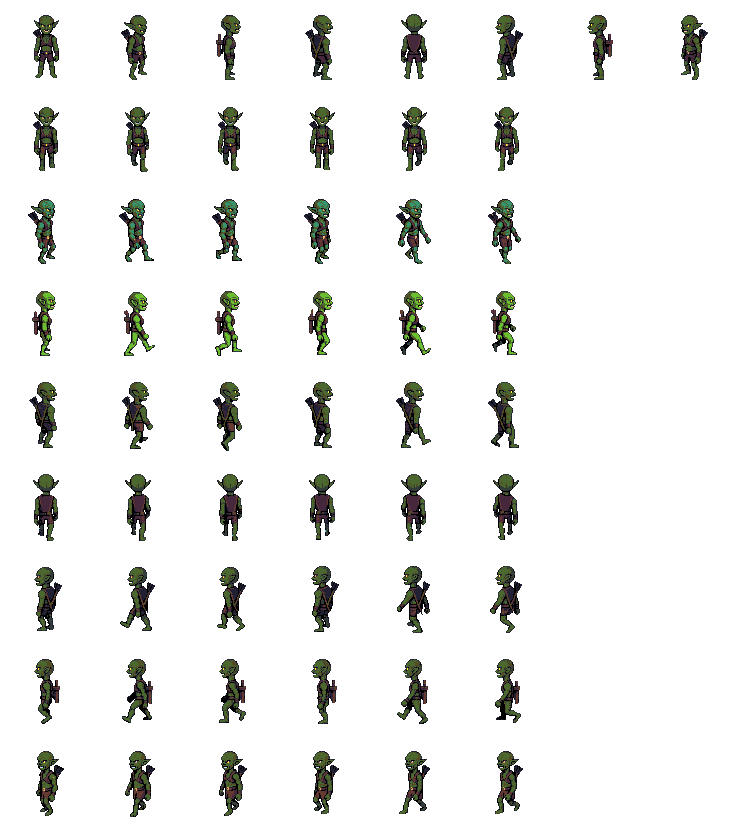
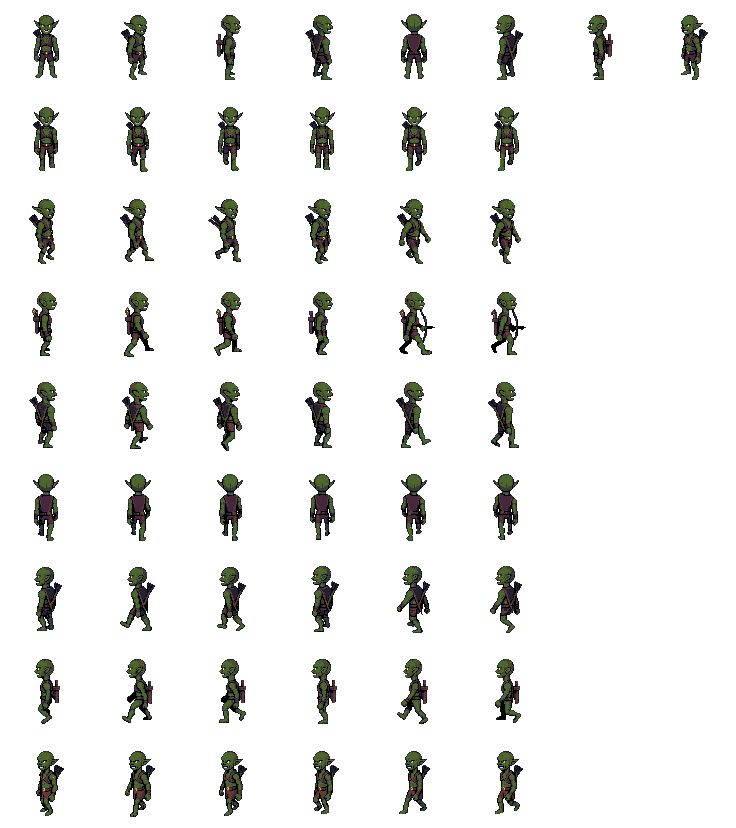
Fix forest_goblin_archer east/south-east walk color mismatch
Re-generated east/south-east walk animations now share the same base
skin color as the other 6 directions (verified pre- and
post-quantization). Rebuilt the atlas and re-verified with
SpriteSheetLoader.

Claude-Session: https://claude.ai/code/session_01JwehRzvjyPPZUNLBXMvKmT

diff --git a/assets/characters/ASSET_REGISTRY.md b/assets/characters/ASSET_REGISTRY.md
@@ -86,6 +86,12 @@ via `reduce_colors` against `assets/palettes/db32.png`).
     the walk group (`delete_animation(..., direction=...)`) and re-queued them via
     `animate_character` into the same `animation_group_id`, hoping for a closer
     color match on retry.
+    **Fixed**: the re-generated east/south-east now share the same base skin
+    color `(64,107,33)` pre-quantization as every other direction (vs. the
+    original `(67,153,29)`/`(70,139,34)`), and after `reduce_colors` all 8
+    directions' frame-0 dominant color matches `(75,105,47)`. Re-verified all 56
+    frames still have zero off-palette pixels, rebuilt the atlas with the fixed
+    frames, and re-ran it through `SpriteSheetLoader` (still parses correctly).
 
 ### winter_ice_goblin — GDD "Ледяной гоблин" (Биом 3 — Зима)
 - `character_id`: not started
